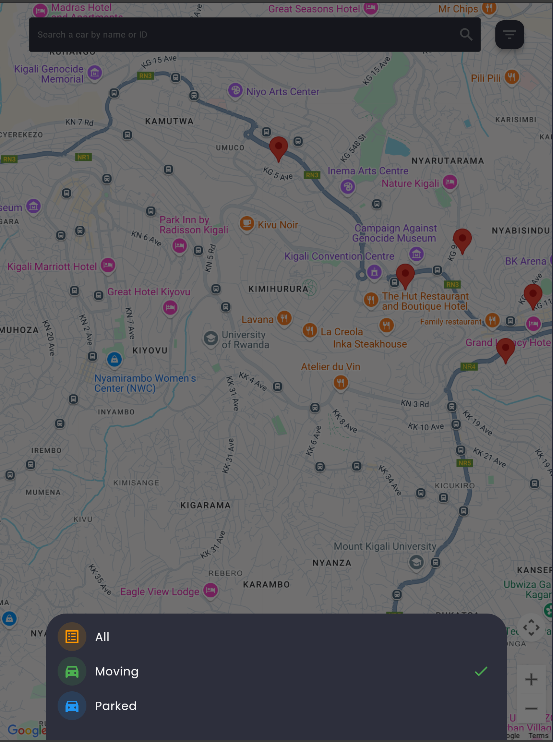
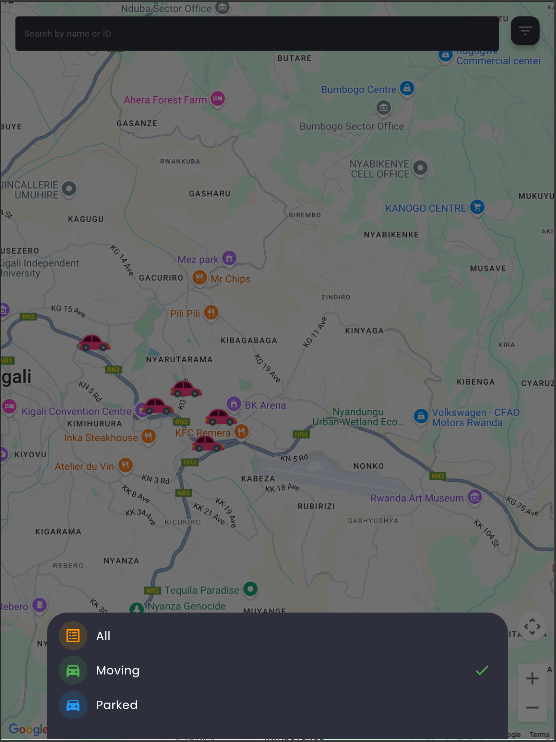
add readme and its screenshots

diff --git a/lib/screens/home_screen.dart b/lib/screens/home_screen.dart
@@ -1,5 +1,7 @@
 import 'package:fleet_monitoring_app/core/routes/app_route.dart';
+import 'package:fleet_monitoring_app/core/utils/images.dart';
 import 'package:fleet_monitoring_app/screens/components/search_widget.dart';
+import 'package:flutter/foundation.dart';
 import 'package:flutter/material.dart';
 
 import 'dart:async';
@@ -8,6 +10,7 @@ import 'package:provider/provider.dart';
 
 import '../core/config/constants.dart';
 import '../core/config/preferences.dart';
+import '../core/utils/loading.dart';
 import '../models/car.dart';
 import '../providers/car_provider.dart';
 
@@ -20,19 +23,24 @@ class HomeScreen extends StatefulWidget {
 
 class _HomeScreenState extends State<HomeScreen> {
   GoogleMapController? _mapController;
-
+  bool _iconsReady = false;
   String _searchQuery = '';
   String? _statusFilter; // 'Moving', 'Parked', or null
   CameraPosition _initialCamera = const CameraPosition(target: LatLng(-1.95, 30.06), zoom: 13);
 
   // preload marker icons
-  late BitmapDescriptor _movingIcon;
-  late BitmapDescriptor _parkedIcon;
+  BitmapDescriptor _movingIcon  = BitmapDescriptor.defaultMarker;
+  BitmapDescriptor _parkedIcon  = BitmapDescriptor.defaultMarker;
+  BitmapDescriptor _trackedIcon = BitmapDescriptor.defaultMarker;
 
   // ── Restore last camera pos
   @override
   void initState() {
     super.initState();
+    WidgetsBinding.instance.addPostFrameCallback((_) {
+      showLoadingDialog(context);
+
+    });
     _loadIcons();
     final pos = Preferences.getLastMapPosition();
     if (pos != null) {
@@ -43,12 +51,20 @@ class _HomeScreenState extends State<HomeScreen> {
     }
   }
 
-
   Future<void> _loadIcons() async {
-    _movingIcon = BitmapDescriptor.defaultMarkerWithHue(BitmapDescriptor.hueGreen);
-    _parkedIcon = BitmapDescriptor.defaultMarkerWithHue(BitmapDescriptor.hueAzure);
-  }
+    if (kIsWeb) {
+      _movingIcon = await BitmapDescriptor.fromAssetImage(const ImageConfiguration(size: Size(48, 48)), ImagePath.movingCar,);
+      _parkedIcon = await BitmapDescriptor.fromAssetImage(const ImageConfiguration(size: Size(48, 48)), ImagePath.parkedCar,);
+      _trackedIcon = await BitmapDescriptor.fromAssetImage(const ImageConfiguration(size: Size(48, 48)), ImagePath.trackedCar,);
 
+    } else {
+      _movingIcon = BitmapDescriptor.defaultMarkerWithHue(BitmapDescriptor.hueGreen);
+      _parkedIcon = BitmapDescriptor.defaultMarkerWithHue(BitmapDescriptor.hueAzure);
+      _trackedIcon = BitmapDescriptor.defaultMarkerWithHue(BitmapDescriptor.hueYellow);
+    }
+    if (context.mounted) Navigator.of(context).pop();
+    setState(() => _iconsReady = true);
+  }
 
   // Persist camera pos on move
   void _onCameraMove(CameraPosition position) {
@@ -61,15 +77,24 @@ class _HomeScreenState extends State<HomeScreen> {
 
   // Build marker set
   Set<Marker> _buildMarkers(List<Car> cars) {
+    final provider = context.read<CarProvider>();
+    final trackedId = provider.trackedCarId;
+
     return cars.map((car) {
+      final isTracked = car.id == trackedId;
+      final icon = isTracked
+          ? _trackedIcon
+          : car.status == 'Moving'
+          ? _movingIcon
+          : _parkedIcon;
+
       return Marker(
         markerId: MarkerId(car.id.toString()),
         position: LatLng(car.latitude, car.longitude),
         infoWindow: InfoWindow(title: car.name, snippet: '${car.speed} km/h'),
-        icon:  car.status == 'Moving' ? _movingIcon : _parkedIcon,
+        icon: icon,
         onTap: () {
-          Navigator.pushNamed(context,
-              AppRoute.carDetail, arguments: car.id);
+          Navigator.pushNamed(context, AppRoute.carDetail, arguments: car.id);
         },
       );
     }).toSet();
@@ -90,13 +115,16 @@ class _HomeScreenState extends State<HomeScreen> {
   void _maybeFollowTracked(CarProvider provider) {
     final id = provider.trackedCarId;
     if (id == null || _mapController == null) return;
+
     final car = provider.getCarById(id);
     if (car == null) return;
 
     _mapController!.animateCamera(
-      CameraUpdate.newLatLng(LatLng(car.latitude, car.longitude)),
+      CameraUpdate.newLatLng(LatLng(car.latitude, car.longitude),
+      ),
     );
   }
+
 
   @override
   Widget build(BuildContext context) {

diff --git a/lib/core/utils/images.dart b/lib/core/utils/images.dart
@@ -1,8 +1,12 @@
 class ImagePath {
   //images route
   static const String imageDir = "assets/images";
-  static const String iconDir =  "assets/icons";
+  static const String iconDir =  "$imageDir/icons";
 
   static const String notFoundSvg = "$imageDir/svg/404.svg";
   static const String logo = "$iconDir/logo.png";
+  static const String movingCar = "$iconDir/moving_car.png";
+  static const String parkedCar = "$iconDir/parked_car.png";
+  static const String trackedCar = "$iconDir/tracked_car.png";
 }
+
